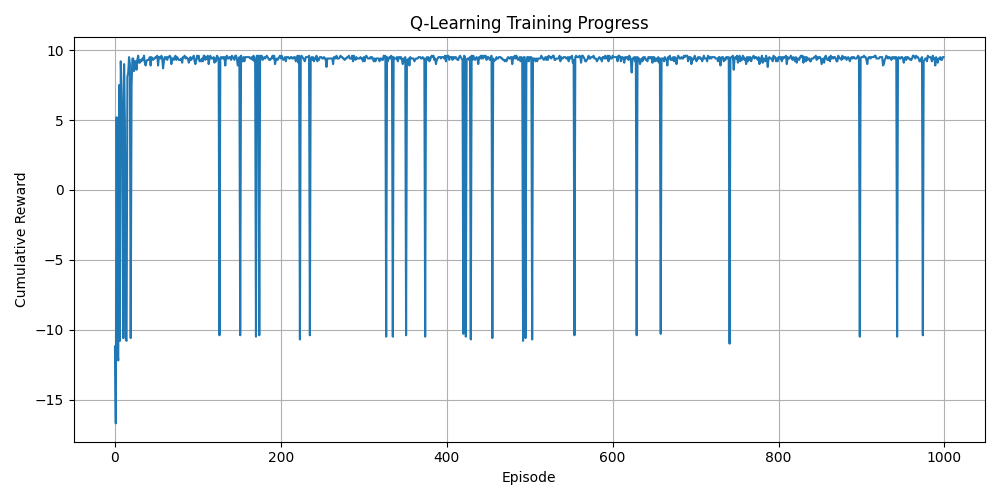
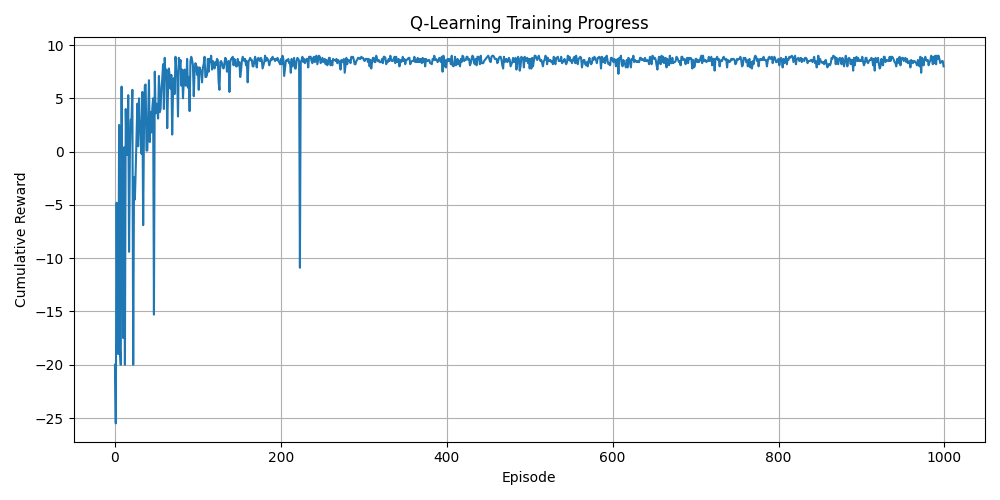
update

diff --git a/grid_world/gridworld_env.py b/grid_world/gridworld_env.py
@@ -14,12 +14,12 @@ class CompetitiveGridWorld(gym.Env):
     def __init__(self, render_mode=None):
         super(CompetitiveGridWorld, self).__init__()
         
-        self.height = 5
-        self.width = 5
+        self.height = 10
+        self.width = 10
         self.render_mode = render_mode
         
-        self.bomb_location = (1, 3)
-        self.gold_location = (0, 3)
+        self.bomb_location = (2, 5)
+        self.gold_location = (0, 5)
         
         self.action_space = spaces.Discrete(4)
         self.observation_space = spaces.Box(low=0, high=1, shape=(self.height, self.width, 3), dtype=np.float32)
@@ -34,7 +34,7 @@ class CompetitiveGridWorld(gym.Env):
     def reset(self, seed=None, options=None):
         super().reset(seed=seed)
         
-        available_positions = [(4, i) for i in range(5)]
+        available_positions = [(9, i) for i in range(self.width)]
         positions = self.np_random.choice(len(available_positions), size=2, replace=False)
         
         self.agent_positions['q_learning'] = available_positions[positions[0]]
@@ -168,7 +168,7 @@ class QAgent:
         self.q_table[old_state][action] = (1 - self.alpha) * current_q + self.alpha * (reward + self.gamma * max_q_new)
 
 
-def train_q_agent(q_agent, env, episodes=1000):
+def train_q_agent(q_agent, env, episodes=3000):
     print("Training Q-Learning Agent...")
     rewards_history = []
     
@@ -176,7 +176,7 @@ def train_q_agent(q_agent, env, episodes=1000):
         env.reset()
         cumulative_reward = 0
         steps = 0
-        max_steps = 100
+        max_steps = 200
         
         while steps < max_steps:
             state = env.agent_positions['q_learning']
@@ -193,25 +193,25 @@ def train_q_agent(q_agent, env, episodes=1000):
         
         rewards_history.append(cumulative_reward)
         
-        if (episode + 1) % 200 == 0:
+        if (episode + 1) % 300 == 0:
             avg_reward = np.mean(rewards_history[-100:])
             print(f"Episode {episode + 1}/{episodes}, Avg Reward: {avg_reward:.2f}")
     
     return rewards_history
 
 
-def train_dqn_agent(env, total_timesteps=50000):
+def train_dqn_agent(env, total_timesteps=100000):
     print("\nTraining DQN Agent...")
     
     model = DQN(
         "MlpPolicy",
         env,
         learning_rate=1e-3,
-        buffer_size=10000,
-        learning_starts=1000,
-        batch_size=32,
+        buffer_size=20000,
+        learning_starts=2000,
+        batch_size=64,
         gamma=0.99,
-        exploration_fraction=0.3,
+        exploration_fraction=0.4,
         exploration_initial_eps=1.0,
         exploration_final_eps=0.05,
         verbose=1
@@ -242,7 +242,7 @@ def compete(q_agent, dqn_model, env, num_games=10, visualize=True):
         q_agent.epsilon = 0.0
         
         steps = 0
-        max_steps = 100
+        max_steps = 200
         
         if visualize:
             env.render()
